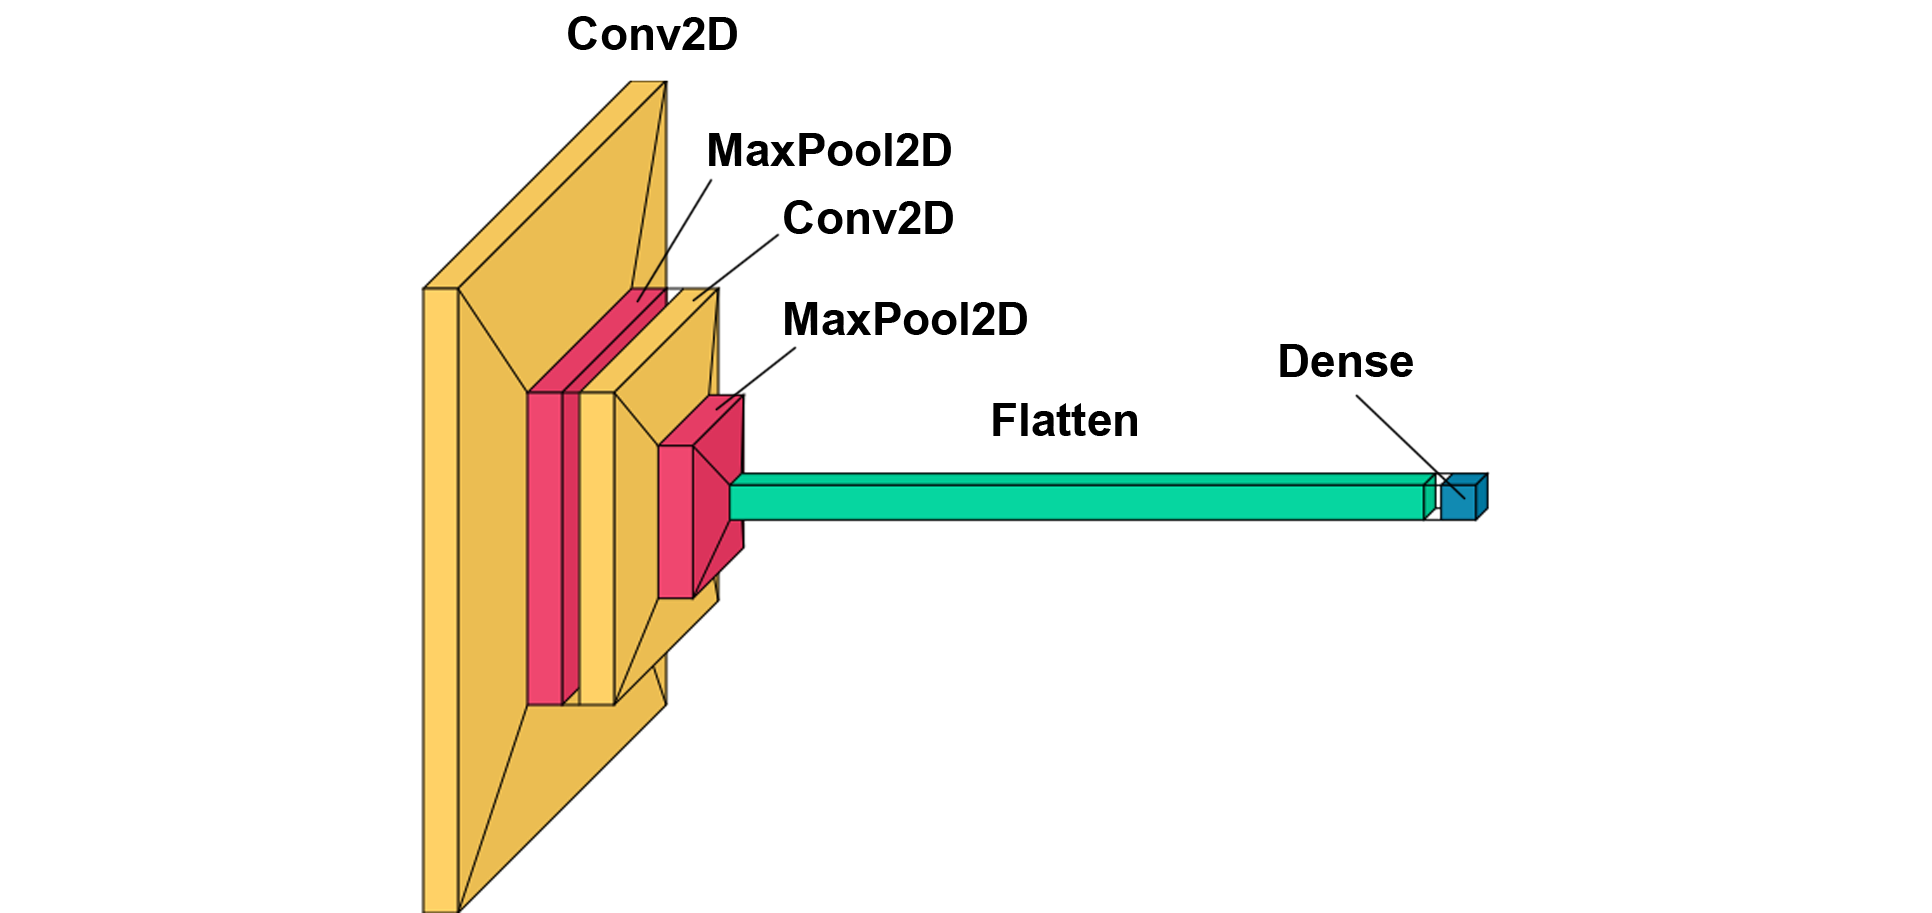
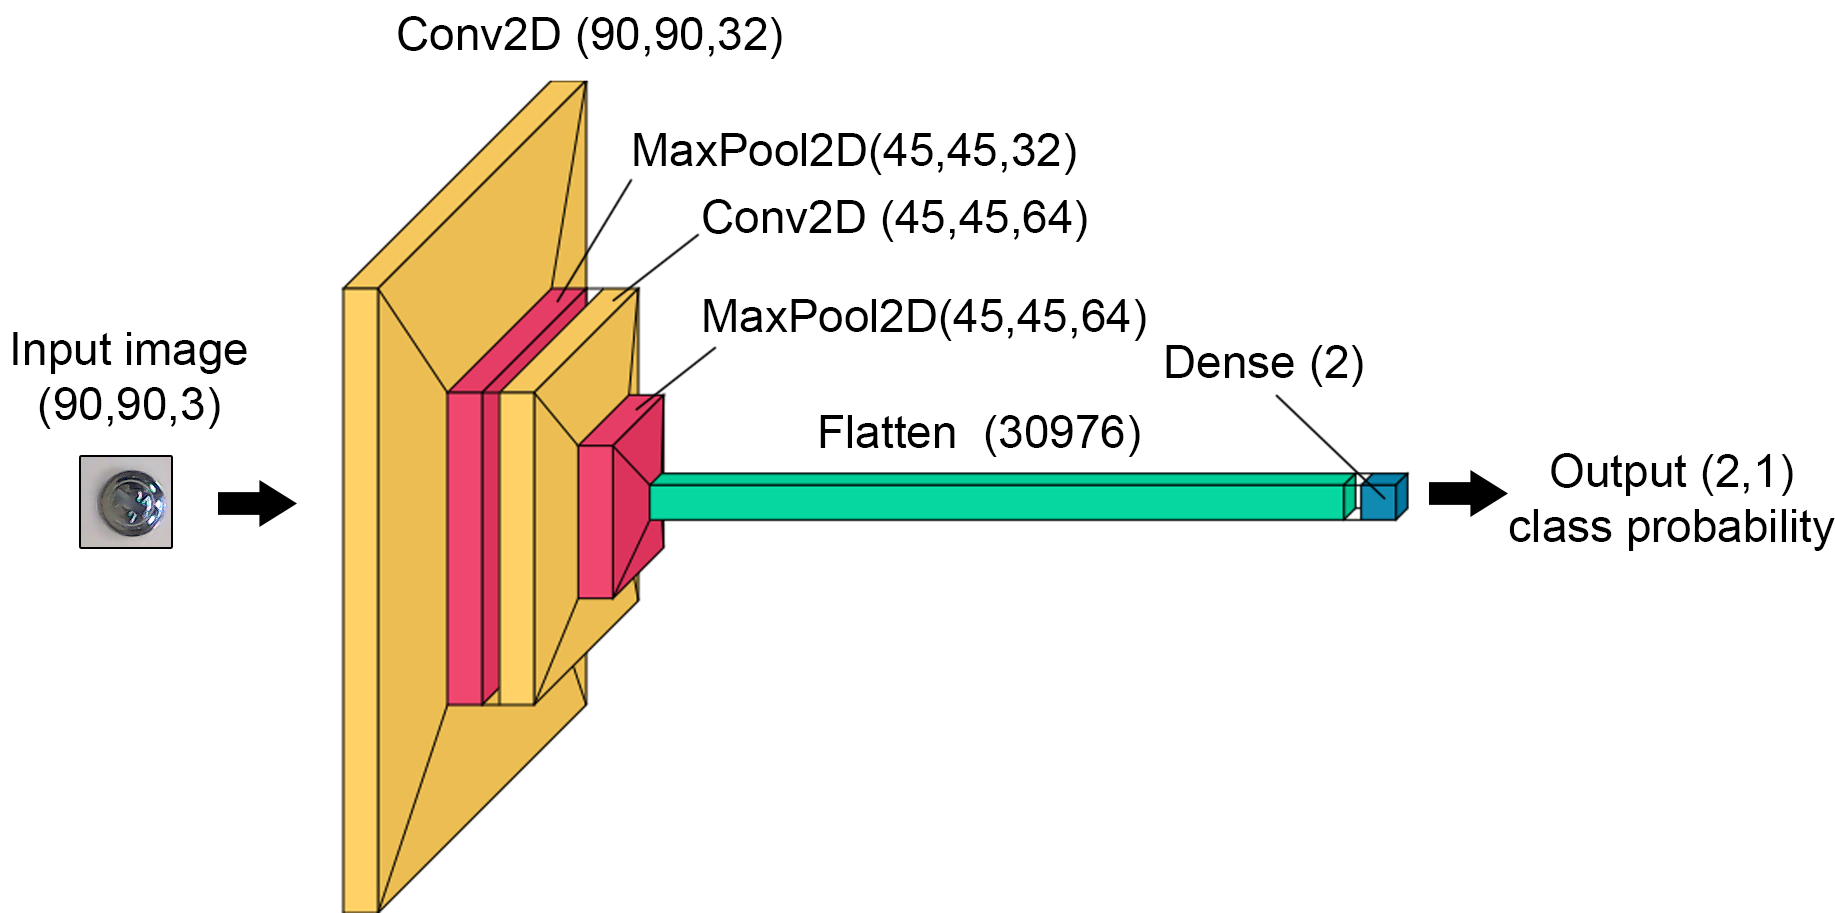
scara update

diff --git a/scara.html b/scara.html
@@ -408,7 +408,7 @@
                                 <mi>m</mi>
                             </mrow>
                         </msub>
-                        <mo>∗</mo>
+
                         <msub>
                             <mi>s</mi>
                             <mi>c</mi>
@@ -434,7 +434,7 @@
         <h2>Image classification</h2>
 
         <p>The proposed educational stand may be used for image recognition and classification. As an example, the small
-            steel galvanized parts are used (a) which part of them have surface defects (b):</p>
+            steel galvanized parts are used, which part of them have surface defects:</p>
 
         <img src="files/scara4.png" alt="Classified parts" class="img2">
 
@@ -444,17 +444,32 @@
 
         <img src="files/scara5.png" alt="Data acquisition" class="img2">
 
-        <p>Acquired data consists of 304 bad and 304 good images the size of which is 90px x 90px randomly located
+        <p>Acquired data consists of 307 bad and 307 good images the size of which is 90px x 90px randomly located
             within the working
-            area. These data are then used to train, validate and test neural network schematically shown below:</p>
+            area. Next, to increase the number of images, data augmentation was performed. Each of the images was rotated about an angle of 90⁰, 180⁰ and 270⁰. This resulted in a total number of colour images of 2456 of size 90px x 90px each. The dataset was split into data for training (60%), validation (20%) and testing (20%) which gives respectively 1476, 490 and 490 images. In each of these subsets, the distribution of features (defect/no defect) is equal (50%/50%). Before training, images were subjected to pre-processing, namely zero-centering with respect to the training dataset and converting into BGR images. These data are then used to train, validate and test neural network schematically shown below:</p>
 
         <img src="files/scara_network.png" alt="Classified parts" class="img2">
 
-        <p>The neural network was designed as a deep convolutional neural network with six hidden layers. To train, the
-            214 defects and 214 good images were used. For validation and testing 60/60 and 30/30 images were used
-            respectively. The results of testing are shown as confusion matrix below:</p>
+        <p>The network consists of two convolutional 2D layers with 3x3 kernel and rectified linear unit activation function followed by max pooling layers with pool size 2x2. In the end, the output after pooling is flattened and returned after the dense layer with softmax activation as the probability of class occurrence. The training was performed with Adam optimizer and as the loss the categorical cross-entropy was used. The results of testing are shown as confusion matrix below:</p>
 
-        <img src="files/scara_cf.png" alt="Confusion matrix" class="img2">
+        <img src="files/scara_cm.png" alt="Confusion matrix" class="img3">
+
+        <p>Sometimes we have to deal with heavily imbalanced datasets with a small number of data corresponding to the failure state. It is common in various diagnostics tasks where we do not have extensive test results and we only know how the system should perform in normal operation. In such cases, there is a need for the use of an unsupervised or semi-supervised learning approach. To simulate this situation we will use part of our dataset.  For training and validation, we will use only images of parts without defects. Testing will be performed with both defect and no defect images. This results in 738 (100% without defect) images for training, 245 (100% without defect) for validation and 490 (50% defective / 50% without defect) for testing. To decrease the training time we applied different pre-processing. Images were resized to 28px x 28px, transformed into greyscale and normalized.</p>
+        <p>One of the typical applications of the unsupervised learning approach is anomaly detection. There are various anomaly detection methods, and one of them is to use of an autoencoder. An autoencoder is a special type of neural network designed to reconstruct its input. It might be used for dimensionality reduction and feature extraction. Input data are compressed by the encoder into the latent layer and then decoded by the decoder. Anomaly might be detected by analysis of latent space or reconstruction error. Figure below presents a convolutional autoencoder used for the detection of abnormal images in this study.</p>
+
+        <img src="files/scara_ae.png" alt="Convolutional autoencoder" class="img2">
+
+        <p>The encoder consists of five convolutional 2D layers with a rectified linear unit activation function and two max pooling layers. The decoder is constructed from five up-sampling transposed convolutional layers. While training, Adam optimizer with the loss as the mean squared error was used. Training and validation loss converges to small value of approx. 0.15. The result of reconstruction of training data is presented below:</p>
+
+        <img src="files/scara_rec.png" alt="Reconstructions" class="img3">
+
+        <p>To visualise the results we may transform latent space into three-dimensional space with the aid of T-distributed stochastic neighbour embedding (t-SNE), which is shown below:</p>
+
+        <img src="files/scara_tsne.png" alt="tSNE of latent space" class="img2">
+
+        <p>After embedding the latent image data, a centred cluster corresponding to parts without defects is observed. Points for parts with defects are spread around this centre cluster. To detect whenever a point is within the blue cluster the k-means algorithm can be used. We assume that only blue points are known, which forms one cluster (k=1). Then we calculate the average of these points which corresponds to the cluster center. In the case presented center coordinates are near zero (t<sub>SNE1</sub>=-0.15,  t<sub>SNE2</sub>=0.23, t<sub>SNE3</sub>=-0.04). Next, we calculate the distance of each blue point to the cluster centre and average them, which gives us the limiting distance (r<sub>lim</sub>=17.58). The point is considered an outlier if its distance to the cluster centre is greater than rlim. Otherwise, we assume that it is located within this cluster. The results of k-means-based classification are given below:</p>
+
+        <img src="files/scara_results.png" alt="Results of unsupervised classification" class="img2">
 
         <h2>Summary</h2>
 

diff --git a/styles.css b/styles.css
@@ -86,6 +86,15 @@ height: auto;
   margin-right: auto;
 }
 
+.img3
+{
+display: block;
+width: 70%;
+height: auto;
+  margin-left: auto;
+  margin-right: auto;
+}
+
 nav {
   float: left;
   width: 300px;/*300px;*/
